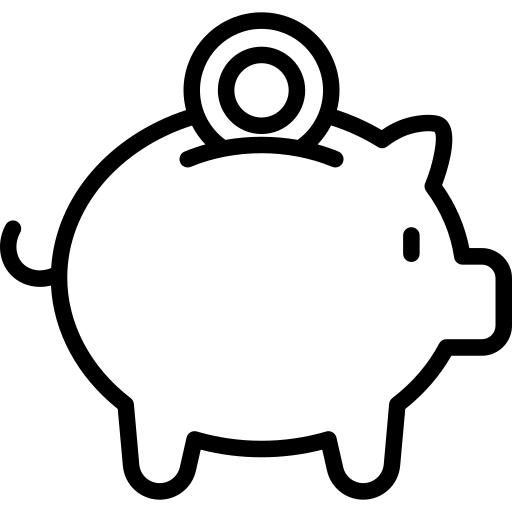
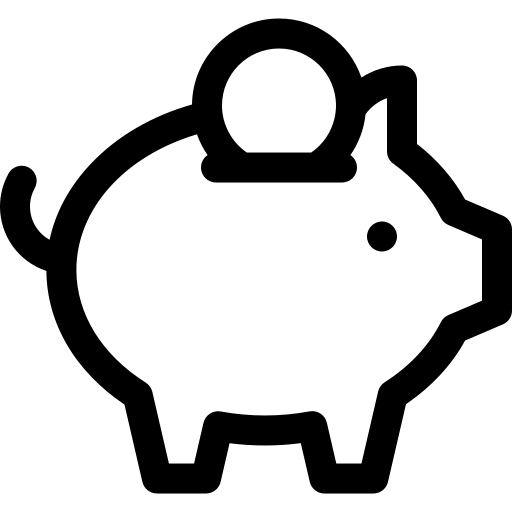
Prepare gated donation flow
- Add disabled donation sheet flow with support amount selection

- Keep public entry gated until explicit activation

- Refresh piggy bank icon and PWA cache version

Changed region(s): [[0.0, 0.0, 1.0, 1.0], [0.7188, 0.4375, 0.8438, 0.5312]]

diff --git a/app.js b/app.js
@@ -14,9 +14,9 @@ const ANALYTICS_DEFINITION_VERSION = "2026-06-25.1";
 const ONBOARDING_VERSION = "2026-06-25.1";
 const ONBOARDING_PREVIEW_PARAM = "onboarding";
 const TRAINER_VERSION = "2026-06-25.1";
-const APP_VERSION = "1.1.0.0";
-const APP_RELEASE_SUMMARY = "первая стабильная версия: карточки, дорожки дней, бюджет, экспорт, нижние модалки, тренажер и мобильное управление работают как канонический базовый сценарий.";
-const DONATION_FLOW_ENABLED = new URLSearchParams(window.location.search).get("donationTest") === "1";
+const APP_VERSION = "1.1.0.1";
+const APP_RELEASE_SUMMARY = "патч первой стабильной версии: подготовлен закрытый сценарий поддержки Backpacker с выбором суммы; публичная кнопка остается заблокированной до отдельной команды на активацию.";
+const DONATION_FLOW_ENABLED = false;
 const DONATION_URL = ANALYTICS_CONFIG.donationUrl || "https://t.me/bckpckrbot?start=donate";
 const DEFAULT_ITEM_STATUS = "want";
 const DEFAULT_ITEM_PRIORITY = "nice";
@@ -1131,16 +1131,12 @@ function shouldShowDonationPrompt() {
 }
 
 function getDonationPromptCopy(source = "manual") {
-  if (source === "auto") {
-    return "Вы уже планируете вторую поездку в Backpacker. Если приложение оказалось полезным, можно поддержать его развитие любой суммой.";
-  }
-  return "Если Backpacker помогает планировать поездки, можно поддержать развитие приложения любой суммой.";
+  return "Если Backpacker уже помогает вам планировать поездки и вы захотите поддержать развитие приложения - будем очень благодарны ❤️";
 }
 
 function openDonationSheet(source = "manual") {
   if (!DONATION_FLOW_ENABLED) return;
-  const text = $("#donationPromptText");
-  if (text) text.textContent = getDonationPromptCopy(source);
+  renderDonationIntroStep(source);
   openSheet("donationSheet");
   if (!donationSheetHistoryArmed) {
     history.pushState({ backpackerDonationSheet: true }, "");
@@ -1184,12 +1180,60 @@ function dismissDonationSheet(method = "not_now", options = {}) {
   donationSheetHistoryArmed = false;
 }
 
-function openDonationCheckout() {
+function renderDonationIntroStep(source = "manual") {
+  $("#donationIntroActions")?.classList.remove("hidden");
+  $("#donationAmountStep")?.classList.add("hidden");
+  const text = $("#donationPromptText");
+  if (text) text.textContent = getDonationPromptCopy(source);
+}
+
+function renderDonationAmountStep() {
+  $("#donationIntroActions")?.classList.add("hidden");
+  $("#donationAmountStep")?.classList.remove("hidden");
+  $("#donationCustomAmount")?.classList.add("hidden");
+  $(".donation-amount-grid")?.classList.remove("hidden");
+  const text = $("#donationPromptText");
+  if (text) text.textContent = "Выберите удобную сумму поддержки.\nКнопка откроет платёжную страницу (карту не привязываем, данные не собираем!), с которой вы сможете перейти в ваш банк.";
+}
+
+function renderDonationCustomAmountStep() {
+  $(".donation-amount-grid")?.classList.add("hidden");
+  $("#donationCustomAmount")?.classList.remove("hidden");
+  const input = $("#donationCustomAmountInput");
+  if (input) {
+    input.value = "";
+    window.setTimeout(() => input.focus(), 80);
+  }
+}
+
+function submitDonationCustomAmount() {
+  const amount = parseMoney($("#donationCustomAmountInput")?.value);
+  if (!amount) {
+    showToast("Введите сумму");
+    return;
+  }
+  openDonationCheckout(String(amount));
+}
+
+function handleDonationCtaClick() {
+  trackEvent("donation_cta_clicked", getTripAnalyticsContext());
+  renderDonationAmountStep();
+}
+
+function buildDonationCheckoutUrl(amount = "custom") {
+  const url = new URL(DONATION_URL, window.location.href);
+  url.searchParams.set("amount", amount);
+  return url.toString();
+}
+
+function openDonationCheckout(amount = "custom") {
   donationState.donationCtaClickedAt = new Date().toISOString();
   saveDonationState();
-  trackEvent("donation_cta_clicked", getTripAnalyticsContext());
-  trackEvent("donation_checkout_opened", getTripAnalyticsContext());
-  window.open(DONATION_URL, "_blank", "noopener,noreferrer");
+  trackEvent("donation_checkout_opened", {
+    ...getTripAnalyticsContext(),
+    amount_option: amount,
+  });
+  window.open(buildDonationCheckoutUrl(amount), "_blank", "noopener,noreferrer");
 }
 
 function renderHome() {
@@ -3121,7 +3165,12 @@ function bindEvents() {
     if (closeTarget) closeSheet(`${closeTarget.dataset.close}Sheet`);
 
     const donationDismissTarget = event.target.closest("[data-donation-dismiss]");
-    if (donationDismissTarget) dismissDonationSheet(donationDismissTarget.dataset.donationDismiss || "not_now");
+    if (donationDismissTarget) {
+      event.preventDefault();
+      event.stopPropagation();
+      dismissDonationSheet(donationDismissTarget.dataset.donationDismiss || "not_now");
+      return;
+    }
 
     const openTripButton = event.target.closest("[data-open-trip]");
     if (openTripButton) openTrip(openTripButton.dataset.openTrip);
@@ -3179,7 +3228,24 @@ function bindEvents() {
     });
     openDonationSheet("manual");
   });
-  $("#donationCtaButton")?.addEventListener("click", openDonationCheckout);
+  $("#donationCtaButton")?.addEventListener("click", handleDonationCtaClick);
+  $("#donationBackButton")?.addEventListener("click", () => renderDonationIntroStep("manual"));
+  $$("[data-donation-amount]").forEach((button) => {
+    button.addEventListener("click", () => {
+      const amount = button.dataset.donationAmount || "custom";
+      if (amount === "custom") {
+        renderDonationCustomAmountStep();
+        return;
+      }
+      openDonationCheckout(amount);
+    });
+  });
+  $("#donationCustomAmountOk")?.addEventListener("click", submitDonationCustomAmount);
+  $("#donationCustomAmountInput")?.addEventListener("keydown", (event) => {
+    if (event.key !== "Enter") return;
+    event.preventDefault();
+    submitDonationCustomAmount();
+  });
   $$("[data-home-panel]").forEach((button) => {
     button.addEventListener("click", () => toggleHomeSupportPanel(button.dataset.homePanel));
   });
@@ -3229,6 +3295,7 @@ function bindDonationSheetGestures() {
   const panel = $("[data-donation-panel]");
   if (!panel) return;
   panel.addEventListener("pointerdown", (event) => {
+    if (event.target.closest("button, a, input, textarea, select")) return;
     donationDragStartY = event.clientY;
     donationDragCurrentY = event.clientY;
     panel.setPointerCapture?.(event.pointerId);

diff --git a/styles.css b/styles.css
@@ -772,8 +772,9 @@ button[aria-disabled="true"] .home-support-icon {
   margin: 0;
   color: var(--ink);
   font-size: 15px;
-  font-weight: 650;
+  font-weight: 400;
   line-height: 1.42;
+  white-space: pre-line;
 }
 
 .donation-sheet-actions {
@@ -787,6 +788,70 @@ button[aria-disabled="true"] .home-support-icon {
   min-height: 45px;
   place-items: center;
   line-height: 1;
+}
+
+#donationCtaButton {
+  border-color: rgba(18, 54, 61, 0.34);
+  background: var(--active-button-gradient);
+  color: #fff;
+  box-shadow: var(--active-button-shadow);
+}
+
+.donation-amount-step {
+  display: grid;
+  gap: 10px;
+}
+
+.donation-amount-step.hidden {
+  display: none;
+}
+
+.donation-amount-grid {
+  display: grid;
+  grid-template-columns: repeat(2, minmax(0, 1fr));
+  gap: 10px;
+}
+
+.donation-amount-grid.hidden {
+  display: none;
+}
+
+.donation-amount-button {
+  display: grid;
+  min-height: 45px;
+  place-items: center;
+  border: 1px solid rgba(18, 54, 61, 0.34);
+  border-radius: 6px;
+  background: var(--active-button-gradient);
+  color: #fff;
+  font-weight: 800;
+  line-height: 1;
+  box-shadow: var(--active-button-shadow);
+}
+
+.donation-back-button {
+  display: grid;
+  min-height: 42px;
+  place-items: center;
+}
+
+.donation-custom-amount {
+  display: grid;
+  gap: 10px;
+}
+
+.donation-custom-amount.hidden {
+  display: none;
+}
+
+.donation-custom-amount .primary-button {
+  display: grid;
+  min-height: 45px;
+  place-items: center;
+  border-color: rgba(18, 54, 61, 0.34);
+  background: var(--active-button-gradient);
+  color: #fff;
+  box-shadow: var(--active-button-shadow);
 }
 
 .home-support-panel h2 {

diff --git a/index.html b/index.html
@@ -572,13 +572,29 @@
       <section class="sheet-panel donation-sheet-panel" role="dialog" aria-modal="true" aria-labelledby="donationSheetTitle" data-donation-panel>
         <div class="donation-sheet-handle" aria-hidden="true"></div>
         <header class="sheet-header">
-          <h2 id="donationSheetTitle">Свинка Backpacker</h2>
+          <h2 id="donationSheetTitle">Копилка Backpacker</h2>
           <button class="icon-button" data-donation-dismiss="not_now" type="button" aria-label="Закрыть">×</button>
         </header>
         <p class="donation-sheet-copy" id="donationPromptText"></p>
-        <div class="donation-sheet-actions">
-          <button class="primary-button" id="donationCtaButton" type="button">Поддержать Backpacker</button>
+        <div class="donation-sheet-actions" id="donationIntroActions">
+          <button class="primary-button" id="donationCtaButton" type="button">Поддержать</button>
           <button class="ghost-button" id="donationNotNowButton" type="button" data-donation-dismiss="not_now">Не сейчас</button>
+        </div>
+        <div class="donation-amount-step hidden" id="donationAmountStep">
+          <div class="donation-amount-grid" role="group" aria-label="Выберите сумму поддержки">
+            <button class="donation-amount-button" type="button" data-donation-amount="100">100 ₽</button>
+            <button class="donation-amount-button" type="button" data-donation-amount="300">300 ₽</button>
+            <button class="donation-amount-button" type="button" data-donation-amount="500">500 ₽</button>
+            <button class="donation-amount-button" type="button" data-donation-amount="custom">Другая сумма</button>
+          </div>
+          <div class="donation-custom-amount hidden" id="donationCustomAmount">
+            <label class="field wide">
+              Сумма поддержки
+              <input id="donationCustomAmountInput" inputmode="numeric" placeholder="Например, 700" />
+            </label>
+            <button class="primary-button" id="donationCustomAmountOk" type="button">Ок</button>
+          </div>
+          <button class="ghost-button donation-back-button" id="donationBackButton" type="button">Назад</button>
         </div>
       </section>
     </div>

diff --git a/service-worker.js b/service-worker.js
@@ -1,4 +1,4 @@
-const CACHE_NAME = "backpacker-pwa-v26";
+const CACHE_NAME = "backpacker-pwa-v27";
 const APP_SHELL = [
   "./",
   "./index.html",